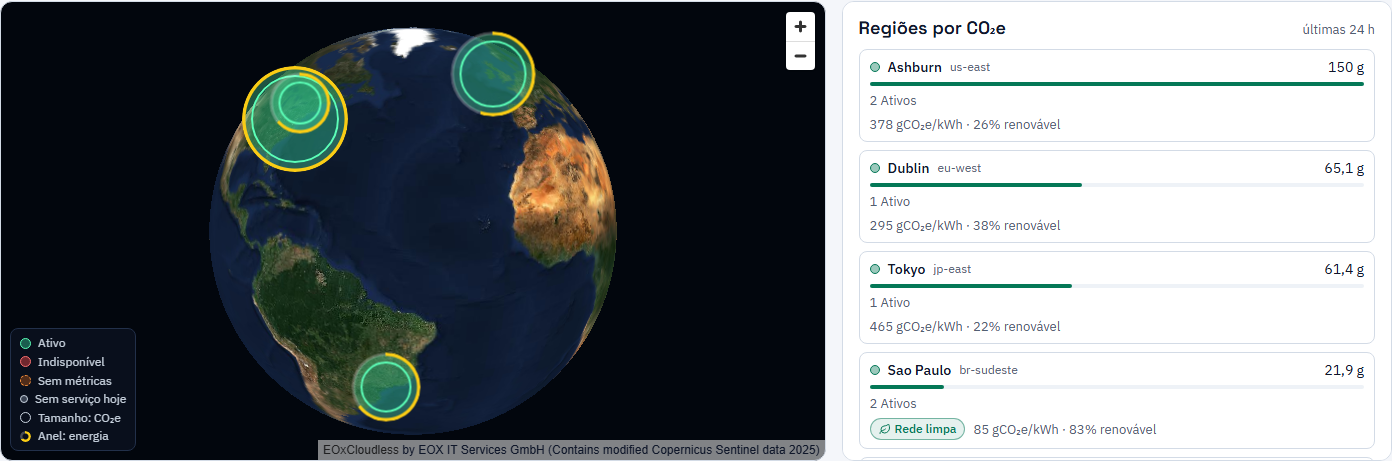
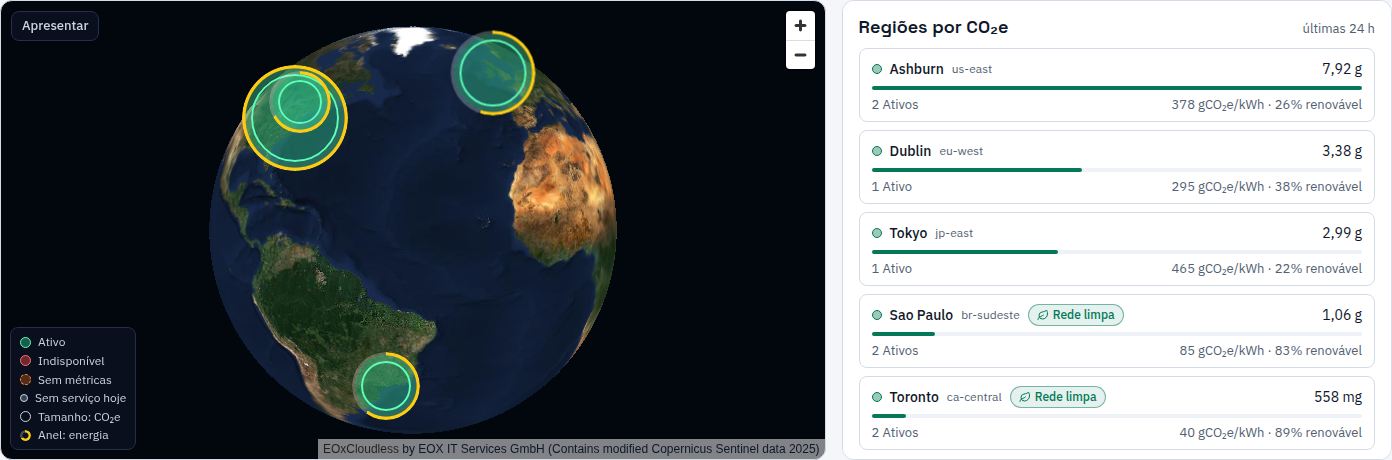
docs(docs): atualiza READMEs e prints do Dashboard (#434)
Lista de regiões em três linhas, painel da região em duas colunas, última atualização no topo do Dashboard e aviso de mudança abaixo dela; prints refeitos na stack com o backend real em 22/11.

diff --git a/frontend/README.md b/frontend/README.md
@@ -38,7 +38,7 @@ Lidas do `.env` da **raiz** do repositório (modelo em `.env.example`; `envDir: 
 - Com a aba oculta o polling pausa; ao voltar para a aba, busca na hora.
 - Ao sair da tela, o timer é limpo e a requisição pendente é cancelada (`AbortController`).
 - O intervalo vem do backend (#176): o `MonitoringProvider` lê `GET /monitoring-settings` ao abrir e de novo a cada ciclo, então uma troca feita na Configuração, em qualquer aba ou navegador, vale para todos no ciclo seguinte. Se a rota falhar ou responder fora do contrato, fica o último valor lido (antes do primeiro, o `VITE_REFRESH_INTERVAL_MS`).
-- O cabeçalho mostra "Última atualização: dd/mm HH:MM:SS · intervalo: N s" e o botão **Atualizar agora**; antes da primeira busca bem-sucedida (inclusive se ela falhar), mostra "Aguardando a primeira atualização" com o intervalo e o botão.
+- No topo do Dashboard, à esquerda de **Imprimir / PDF**, ficam "Última atualização: dd/mm HH:MM:SS · intervalo: N s" e o botão **Atualizar agora**; antes da primeira busca bem-sucedida (inclusive se ela falhar), aparece "Aguardando a primeira atualização" com o intervalo e o botão. Até a #434 os dois ficavam no cabeçalho, e o menu quebrava em duas linhas abaixo de cerca de 1.215 px; agora o cabeçalho só tem a marca, o menu e as ações da pessoa, e fica em uma linha a partir de cerca de 1.110 px. No papel a barra some, e o cabeçalho do relatório traz a última atualização.
 - Durante uma busca o botão fica com `aria-disabled` (não `disabled`), para quem navega pelo teclado não perder o foco a cada ciclo. O selo não é `role="status"`: o horário não é anunciado a cada ciclo, e a falha é anunciada pelo aviso de erro.
 - Se uma atualização falhar com dados na tela, eles continuam visíveis, o selo fica laranja ("Desatualizado desde…") e, acima dos cards, aparece a faixa compacta laranja `UpdateFailedBanner` (cerca de 40 px): a mensagem do erro, "Mostrando dados de HH:MM:SS." e **Tentar novamente**. A mensagem é a que o hook entrega: "Não foi possível conectar ao servidor…" quando a rede cai, ou a do corpo do erro num 500. O aviso grande (`ErrorState`) fica só para a falha sem nenhum dado.
 - A faixa é `role="status"`, e não `alert`: a região viva fica montada enquanto há dados, e o leitor de tela anuncia a falha uma vez, e não a cada ciclo do polling.
@@ -46,7 +46,7 @@ Lidas do `.env` da **raiz** do repositório (modelo em `.env.example`; `envDir: 
 ## Avisos de mudança de estado (RF02, RF05, RF06, #331)
 
 - `useStatusChanges` compara cada lista de `GET /services` com a anterior, sem requisição nova, e gera uma frase com o horário para cada mudança: "Novo serviço: Billing API, às 14:32", "Billing API ficou indisponível às 14:32", "… ficou sem métricas …", "… voltou a ficar ativo …" e "… saiu do agregador …" (estado `removido` ou fora da lista). A primeira lista da página só vira referência: a carga nunca avisa nada. Uma busca que falhou mantém a mesma lista e também não avisa.
-- O aviso (`ChangeToast`) aparece no canto inferior direito com até 3 frases, a mais grave primeiro, e some em 8 s (ou no ×). Abaixo de 600 px ele vai para o **topo, abaixo do cabeçalho**, com **uma frase** e o resto resumido em "e mais N em Últimas mudanças" (#388): no celular o mapa das regiões fica no rodapé da tela, e o aviso no rodapé cobria o começo do mapa e os botões "+" e "−" do zoom. O topo acompanha a base do cabeçalho medida na tela (`narrowToastTop`): o cabeçalho do celular tem duas linhas, com **Atualizar agora** na segunda, e a faixa do modo demonstração o empurra para baixo; com a página rolada, o cabeçalho sai da tela e o aviso fica a 8 px do topo. O layout segue a largura da janela ao vivo (`toastLayout`, com `matchMedia`), então girar o celular troca de um para o outro sem recarregar. Ele não recebe foco; a região `role="status"` com `aria-live="polite"` fica sempre montada, e o leitor de tela anuncia o lote uma vez.
+- O aviso (`ChangeToast`) aparece no canto inferior direito com até 3 frases, a mais grave primeiro, e some em 8 s (ou no ×). Abaixo de 600 px ele vai para o **topo, abaixo da barra com Atualizar agora e Imprimir / PDF** (`data-toast-anchor`, #434; sem ela, abaixo do cabeçalho), com **uma frase** e o resto resumido em "e mais N em Últimas mudanças" (#388): no celular o mapa das regiões fica no rodapé da tela, e o aviso no rodapé cobria o começo do mapa e os botões "+" e "−" do zoom. O topo acompanha a base do cabeçalho medida na tela (`narrowToastTop`): o cabeçalho do celular tem duas linhas, com **Atualizar agora** na segunda, e a faixa do modo demonstração o empurra para baixo; com a página rolada, o cabeçalho sai da tela e o aviso fica a 8 px do topo. O layout segue a largura da janela ao vivo (`toastLayout`, com `matchMedia`), então girar o celular troca de um para o outro sem recarregar. Ele não recebe foco; a região `role="status"` com `aria-live="polite"` fica sempre montada, e o leitor de tela anuncia o lote uma vez.
 - **Últimas mudanças** (`RecentChanges`), abaixo dos cards de estado, guarda as 10 mais recentes desde que a página abriu, em duas colunas a partir de 6 linhas na tela larga.
 - Na tabela, a linha que mudou de estado ganha um clarão verde de 4 s, e CPU e fator que subiram ou desceram desde a lista anterior ganham ▲ ou ▼ antes do número (o leitor de tela lê "subiu" ou "desceu"). Com "reduzir movimento", a linha fica com um contorno parado até a atualização seguinte. Se a busca seguinte falha, as setas somem enquanto o selo diz "Desatualizado desde…": o número é da atualização anterior, não um valor que acabou de mudar.
 
@@ -210,7 +210,7 @@ A API devolve energia em kWh e CO₂e em gramas. A tela escolhe a unidade em `sr
 
 ## Regiões por CO₂e (RF13, #342)
 
-- Entre **Quem pesa mais** e a tabela, o Dashboard mostra **Regiões por CO₂e**: uma linha por região, da maior para a menor emissão das últimas 24 h (o mesmo período dos indicadores), com a barra proporcional à maior, os serviços por estado ("2 Ativos · 1 Indisponível"), a intensidade da rede e a parte renovável. Região sem cálculo mostra "sem cálculo"; a marca colorida é o pior estado, e "Sem métricas" tem a borda tracejada, para não depender só da cor.
+- Entre **Quem pesa mais** e a tabela, o Dashboard mostra **Regiões por CO₂e**: uma linha por região, da maior para a menor emissão das últimas 24 h (o mesmo período dos indicadores), com a barra proporcional à maior, os serviços por estado ("2 Ativos · 1 Indisponível"), a intensidade da rede e a parte renovável. Cada região ocupa três linhas (#434): o nome, o código e o selo **Rede limpa** com o CO₂e à direita; a barra; e os serviços por estado à esquerda com a rede à direita. Ao lado do mapa, cinco regiões cabem sem rolagem; em card estreito, a rede desce para a linha de baixo, alinhada à esquerda. Região sem cálculo mostra "sem cálculo"; a marca colorida é o pior estado, e "Sem métricas" tem a borda tracejada, para não depender só da cor.
 - Os dados vêm de `GET /api/regions` e `GET /api/regions/summary` (`regions.service.ts`, #341), buscados juntos a cada ciclo do polling. `utils/region-map.ts` junta as duas respostas com o `joinRegions` da #321 e separa as regiões com serviço, as **sem serviço hoje** (no grupo recolhido do fim, por nome) e os serviços **fora do mapa**: sem região, com região que a Carbon API não informa ou com região sem coordenada. Eles continuam na tabela, e o aviso diz quantos são; o CO₂e dos sem região conhecida aparece no aviso, para a soma da lista bater com o card **Emissões no período**. Serviços removidos não entram nas contagens.
 - **Seleção compartilhada:** cada região da lista é um botão com `aria-pressed`. Clicar numa região destaca, na tabela, as linhas dela (fundo e filete verde à esquerda); na tabela, o código da região na coluna **Localização** também é um botão que seleciona a mesma região na lista, sem abrir a janela do serviço. Clicar de novo desfaz a seleção. O mapa (abaixo) usa a mesma seleção.
 - **Com o backend real** (`VITE_API_URL`), a lista e o mapa usam `GET /api/regions` (#319) e `GET /api/regions/summary` (#320), verificados no compose na #351 (PR #373).
@@ -230,16 +230,17 @@ A API devolve energia em kWh e CO₂e em gramas. A tela escolhe a unidade em `sr
 
 ## Selo de rede limpa (RF12, RF13, #324)
 
-- O selo **Rede limpa** (folha e texto, nunca só a cor) marca as regiões com intensidade de carbono de agora em até **100 g CO₂e/kWh**, o limite do PO em [docs/calculos.md § Limite de "rede limpa"](../docs/calculos.md#limite-de-rede-limpa) (caso região). Ele aparece em três lugares: na tabela de serviços, ao lado do código da região na coluna **Localização**; na lista de regiões, antes da intensidade, inclusive nas regiões sem serviço hoje; e no rótulo das bolhas do mapa ("…, rede limpa"), lido pelo leitor de tela.
+- O selo **Rede limpa** (folha e texto, nunca só a cor) marca as regiões com intensidade de carbono de agora em até **100 g CO₂e/kWh**, o limite do PO em [docs/calculos.md § Limite de "rede limpa"](../docs/calculos.md#limite-de-rede-limpa) (caso região). Ele aparece em três lugares: na tabela de serviços, ao lado do código da região na coluna **Localização**; na lista de regiões, ao lado do nome (#434), inclusive nas regiões sem serviço hoje; e no rótulo das bolhas do mapa ("…, rede limpa"), lido pelo leitor de tela.
 - O tooltip mostra a intensidade e o % renovável em destaque ("40 g CO₂e/kWh · 89% renovável") e a regra embaixo; na tabela, os mesmos números vão em texto para o leitor de tela. Sem intensidade conhecida, ou com a região fora de `GET /api/regions`, não há selo: falta de dado nunca vira "rede limpa".
 - A intensidade vem **só de `GET /api/regions`**, por `isCleanGrid` e `gridByCode` de `utils/regions.ts`; o limite é a única constante (`CLEAN_GRID_MAX_GCO2E_PER_KWH`, que muda junto com o documento). Por isso o selo pode discordar da coluna **Fator da região**, que é o fator gravado na última coleta. O Dashboard busca as duas rotas de região com `Promise.allSettled`: se só `GET /api/regions/summary` falha, a lista e o mapa mostram "Regiões indisponíveis", mas o selo da tabela continua. Se a própria lista falha, o selo fica em cinza com o último dado, e o tooltip avisa que é da atualização anterior.
 
 ## Simulação de migração (RF15, #326)
 
 - Com uma região **com serviço** selecionada (no mapa, na lista ou na tabela), abaixo do mapa e da lista abre o painel da região (`RegionDetail`): CO₂e e energia das últimas 24 h e o bloco **Alternativa mais limpa nas últimas 24 h**. Região sem serviço não abre o painel, porque não há nada a migrar.
+- **Duas colunas a partir de 1100 px (#434):** o mesmo corte do mapa com a lista. À esquerda fica a decisão (o subtítulo, a frase ou o cartão de recomendação, **Por que a diferença** e os botões); à direita, a tabela **Simular outra região**. Antes, o cartão e a tabela paravam em 720 px e a metade direita do painel ficava vazia. Abaixo de 1100 px e no papel, o painel continua empilhado. Abaixo de 600 px, as células da tabela têm 4 px de respiro lateral, e as quatro colunas cabem em 390 px.
 - O bloco usa a região de **menor intensidade entre todas as da Carbon API**, inclusive as sem serviço hoje, e é um **cartão de recomendação** (#395), do achado para a conta: (1) o veredito numa frase, "Mover para <cidade> reduziria o CO₂e desta região em cerca de Y%" (ou "aumentaria", "manteria"), com o `CleanGridBadge` quando o destino tem até 100 g/kWh; (2) **hoje × simulado** em duas barras no mesmo eixo, começando em zero, com o valor escrito ao lado (`migrationBars`); (3) a diferença em palavras, "X g a menos de CO₂e nas últimas 24 h"; (4) a linha da conta em kWh e g/kWh ("Conta: 0,118 kWh × 40 g/kWh = 4,72 g"), para quem verifica refazer o cálculo com a fórmula de [docs/calculos.md § Simulação de migração regional](../docs/calculos.md#simulação-de-migração-regional). O percentual tem 2 casas, como no exemplo do documento. Borda, barra e diferença ficam verdes na redução e laranja no aumento, sempre com o verbo e a palavra junto da cor. O veredito vem de `migrationVerdict` (`src/utils/region-map.ts`).
 - **Por que a diferença:** a intensidade da origem **no período** (CO₂e ÷ energia das coletas, `periodIntensity`, a mesma base da simulação, que usa o CO₂e gravado) contra a de agora no destino, com quantas vezes uma é menor ou maior (`intensityRatioText`; abaixo de 5% de diferença, "praticamente a mesma"), a energia considerada e quantos serviços a consumiram, e o aviso quando o destino não tem serviço monitorado hoje.
-- **Tabela de fatores como seletor:** uma linha por região, exceto a origem, da mais limpa para a mais suja (`sortByCleanest`), com a intensidade, o CO₂e simulado e a diferença. A mais limpa tem a etiqueta "mais limpa"; região sem intensidade aparece "indisponível" e não pode ser escolhida. Escolher uma linha refaz o cartão com aquela região, e o título do bloco passa a **Destino escolhido**. A coluna Diferença mostra "▼ Y%" ou "▲ Y%", com a palavra "redução" ou "aumento" para o leitor de tela; destino mais sujo aparece como "aumentaria", nunca como redução negativa. **Ver alternativa mais limpa** escolhe a primeira linha, e **Voltar para <origem>** desfaz a escolha.
+- **Tabela de fatores como seletor:** uma linha por região, exceto a origem, da mais limpa para a mais suja (`sortByCleanest`), com a intensidade, o CO₂e simulado e a diferença. A mais limpa tem a etiqueta "mais limpa", exceto quando a própria origem já é a de menor intensidade: aí nenhuma linha tem a etiqueta nem o destaque, para não contradizer a frase "Esta já é a região de menor intensidade de carbono." (#434); região sem intensidade aparece "indisponível" e não pode ser escolhida. Escolher uma linha refaz o cartão com aquela região, e o título do bloco passa a **Destino escolhido**. A coluna Diferença mostra "▼ Y%" ou "▲ Y%", com a palavra "redução" ou "aumento" para o leitor de tela; destino mais sujo aparece como "aumentaria", nunca como redução negativa. **Ver alternativa mais limpa** escolhe a primeira linha, e **Voltar para <origem>** desfaz a escolha.
 - O destino fica guardado no Dashboard junto com a origem: trocar a região selecionada zera o destino, e a atualização periódica não mexe nele.
 - **Destino no mapa:** com um destino escolhido, a região dele ganha um marcador azul-claro com contorno tracejado (**Destino simulado** na legenda), do tamanho do CO₂e simulado na mesma escala das bolhas, mesmo quando a região não tem serviço; o `aria-label` traz o valor. Enquanto a simulação está aberta, o CO₂e do destino entra no máximo da escala (`co2eScaleMax`): um destino mais sujo que a maior região sai maior que ela, e a origem encolhe um pouco. O marcador não pulsa, porque é simulação e não leitura. Se o destino tem serviço, o marcador ocupa o lugar da bolha dele enquanto a simulação estiver aberta. A câmera vai até o destino e volta com **Voltar para <origem>**; clicar em outra região ou em **Visão geral** encerra a comparação, e a atualização periódica não move a câmera (`cameraTarget`, em `src/utils/region-map.ts`). No celular, os botões do painel rolam a página até o mapa quando ele saiu da tela, para a viagem aparecer.
 - **Nome no mapa:** sob a bolha selecionada e sob o destino aparece uma etiqueta com o nome e o CO₂e que o tamanho representa ("Ashburn · 1,03 kg CO₂e", "Destino simulado: Estocolmo · 68,3 g CO₂e"), para o mapa dizer onde a câmera está mesmo com o painel fora da tela. O texto vem de `bubbleCaption` (`src/utils/region-map.ts`); o leitor de tela continua ouvindo o `aria-label` da bolha.
@@ -432,7 +433,7 @@ npm run mock        # backend falso em http://localhost:3000 (desenvolvimento)
 7. Ao abrir, a tabela já vem ordenada pelo CO₂e das 24 h, do maior para o menor (#330): o título **CO₂e 24 h** mostra ↓ (`aria-sort="descending"`), a primeira linha é **Fraud Detector** e **Email Dispatcher** e **Inventory Sync**, sem cálculo no período, ficam no fim. Clicar em **Status** → ordena por gravidade (Indisponível, Sem métricas, Ativo, Removido), com desempate pelo maior CO₂e das 24 h. Clicar nos títulos das colunas (Serviço, Status, Energia 24 h, CO₂e 24 h, Parte, CPU, Fator, Última leitura, Localização) → ordena; clicar de novo inverte; serviços sem valor ficam sempre no fim. Localização ordena pela região (depois país e cidade). Ordenar por **CO₂e 24 h**, nos dois sentidos → um serviço **Removido** fica sempre na última linha, com os números em cinza. Com a tela aberta, parar o backend (`docker compose stop backend`) e clicar em **Atualizar agora** → além da faixa laranja, os números da tabela ficam em cinza, inclusive a coluna **Parte do CO₂e (24 h)**, sem o neon do 1º, e a frase **Quem pesa mais** perde a borda verde; `docker compose start backend` e **Tentar novamente** → voltam à cor normal (#261, #260).
 8. `MOCK_SERVICES=vazio npm run mock` e recarregar → "Nenhum serviço monitorado ainda".
 9. `MOCK_SERVICES=erro npm run mock` e recarregar → sem nenhum dado na tela, aparece um aviso grande "Falha simulada no backend falso." (a mensagem vem do corpo do erro) com **Tentar novamente**: a lista de serviços e o painel de indicadores falham juntos, como no backend real com o banco fora do ar, e o aviso é um só (#271). O ranking de CO₂e nem é pedido, porque espera a primeira lista: o terminal do mock não registra `GET /services/ranking`.
-10. Com dados carregados, o cabeçalho mostra o selo **"Última atualização: dd/mm HH:MM:SS"** com um ponto verde pulsando (sistema ativo); com "reduzir movimento" ligado no sistema, o ponto fica parado. A cada horário novo no selo, o logo pulsa uma vez: a folha vira uma linha de batimento com brilho neon e volta (cerca de 2,4 s). Ele não pulsa quando a atualização falha, em **Configuração** (sem polling) nem com "reduzir movimento", e dois cliques seguidos em **Atualizar agora** não reiniciam o pulso no meio. Apertar Tab logo depois de abrir a página → aparece **Pular para o conteúdo** no canto; Enter leva o foco ao conteúdo, pulando o menu (#262).
+10. Com dados carregados, o topo do Dashboard mostra, à esquerda de **Imprimir / PDF**, o selo **"Última atualização: dd/mm HH:MM:SS"** com um ponto verde pulsando (sistema ativo); com "reduzir movimento" ligado no sistema, o ponto fica parado. A cada horário novo no selo, o logo pulsa uma vez: a folha vira uma linha de batimento com brilho neon e volta (cerca de 2,4 s). Ele não pulsa quando a atualização falha, em **Configuração** (sem polling) nem com "reduzir movimento", e dois cliques seguidos em **Atualizar agora** não reiniciam o pulso no meio. Apertar Tab logo depois de abrir a página → aparece **Pular para o conteúdo** no canto; Enter leva o foco ao conteúdo, pulando o menu (#262).
 11. Com o mock no ar, carregar o dashboard, depois subir o mock com `MOCK_SERVICES=erro` e clicar em **Atualizar agora** → os dados continuam na tela, o selo fica laranja (**"Desatualizado desde …"**) e, acima dos cards, aparece a faixa compacta laranja "Falha simulada no backend falso. Mostrando dados de HH:MM:SS." com **Tentar novamente**, no lugar do aviso grande.
 12. Com o mock no ar com `MOCK_REFRESH_INTERVAL_SECONDS=5 npm run mock` (PowerShell: `$env:MOCK_REFRESH_INTERVAL_SECONDS='5'; npm run mock`): a cada 5 s o horário do selo muda e o terminal do mock registra um novo `GET /services`; os valores de CPU e energia mudam na tabela **sem recarregar a página**. O selo mostra "intervalo: 5 s".
 13. Clicar em **Atualizar agora** (ícone ao lado do selo) → busca na hora, sem esperar o intervalo.
@@ -532,7 +533,7 @@ npm run mock        # backend falso em http://localhost:3000 (desenvolvimento)
 105. Abrir o link numa janela anônima → **Criar conta** com `ana@exemplo.com` e **Usuário** em somente leitura. Senha `curta` → a regra aparece no campo; confirmação diferente → "As senhas não são iguais."; nenhuma das duas chama `POST /auth/register` (aba Network). Com nome, `senha1234` e a mesma confirmação → a tela vai para `/login` com "Conta criada. Entre com seu e-mail e senha." e o e-mail preenchido.
 106. Abrir o mesmo link de novo → "Este convite já foi usado.", sem formulário. `/cadastro?convite=` com um token qualquer → "Convite não encontrado…"; `/cadastro` sem token → "Este link de convite está incompleto…".
 107. Entrar como `ana@exemplo.com` / `senha1234` → o cabeçalho diz "Olá, Ana"; na **Configuração**, "Papel: Usuário", sem **Convidar pessoa** e com o intervalo só para leitura ("Só administradores alteram a configuração."). Com 390 px, o cadastro e a Configuração com o link gerado não têm rolagem lateral. Sem o backend, o mesmo roteiro roda com `npm run mock` (convites e contas valem até reiniciar o mock).
-108. Com o `.env` do passo 4 e `MOCK_SERVICES=mudancas MOCK_REFRESH_INTERVAL_SECONDS=5 npm run mock` (#388), abrir o Dashboard em 390 px, rolar até o mapa das regiões e posicionar os botões "Zoom in"/"Zoom out" na tela → quando o mock derruba um serviço, o aviso aparece no **topo** (8 px abaixo da borda da janela, já que o cabeçalho rolou para fora; largura total menos 16 px de cada lado), com uma frase e o resto em "e mais N em Últimas mudanças", e os dois botões do mapa continuam visíveis e clicáveis. Voltar ao topo da página e esperar o aviso seguinte → ele aparece 8 px abaixo do cabeçalho de duas linhas, sem cobrir **Atualizar agora**; o mesmo em 360 e 320 px. Em 1366 px, o mesmo evento mostra o aviso no canto inferior direito (360 px de largura, 16 px das bordas) com até 3 frases. Abrir o **Menu** com o aviso na tela → o painel do menu fica por cima dele.
+108. Com o `.env` do passo 4 e `MOCK_SERVICES=mudancas MOCK_REFRESH_INTERVAL_SECONDS=5 npm run mock` (#388), abrir o Dashboard em 390 px, rolar até o mapa das regiões e posicionar os botões "Zoom in"/"Zoom out" na tela → quando o mock derruba um serviço, o aviso aparece no **topo** (8 px abaixo da borda da janela, já que o cabeçalho rolou para fora; largura total menos 16 px de cada lado), com uma frase e o resto em "e mais N em Últimas mudanças", e os dois botões do mapa continuam visíveis e clicáveis. Voltar ao topo da página e esperar o aviso seguinte → ele aparece 8 px abaixo da barra com **Atualizar agora** e **Imprimir / PDF** (#434), sem cobrir os dois; o mesmo em 360 e 320 px. Em 1366 px, o mesmo evento mostra o aviso no canto inferior direito (360 px de largura, 16 px das bordas) com até 3 frases. Abrir o **Menu** com o aviso na tela → o painel do menu fica por cima dele.
 109. Com o backend falso (passo 4) e a sessão aberta, abrir **Emissões**, serviço **Fraud Detector**, período **Hoje**, e clicar duas vezes em **Aproximar** e uma em **▶** (zoom, #396) → os cards passam a "Emissão no trecho", "Energia no trecho", "Média a cada 15 min no trecho", "Maior intervalo no trecho" e "Coletas no trecho", e a **Intensidade da região** ganha "período inteiro"; o subtítulo ganha "· trecho HH:MM–HH:MM"; uma faixa diz "Trecho ampliado: dd/mm HH:MM → HH:MM (duração), N% do período" e "Período inteiro: … CO₂e · … · N coletas; o trecho tem N% do CO₂e. O CSV continua com o período inteiro.". O primeiro **Aproximar** mostra a metade central do dia até agora, encaixada em 15 min; o segundo, a metade dessa; **▶** anda meio trecho (com o relógio em 20/11/2026 18:30: 04:45–14:00, 07:00–11:45 e 09:30–14:15). A dica (mouse ou setas, Home e End no gráfico) e o chip do pico ficam dentro do trecho.
 110. Com o trecho, clicar em **Imprimir / PDF** → o cabeçalho diz "Período dd/mm/aaaa (horário de Brasília) · trecho HH:MM–HH:MM", os cards dizem "no trecho", o gráfico é o do trecho, a faixa não sai no papel, e o total da tabela é igual aos cards (em 20/11/2026 18:30, trecho 09:30–14:15: 19 intervalos, 570 coletas, 324,3 Wh e 122,28 g, iguais à soma dos `buckets` de `GET /api/collections/series` de 09:30 a 14:15; nos cards, 570, 324 Wh e 122 g). **Baixar CSV** → "CSV com N coletas baixado.", com N igual às coletas do "Período inteiro" da faixa, e a busca vai de 00:00 até agora.
 111. Com o trecho, ligar **Acumulado** → a curva começa no primeiro intervalo do trecho, e End no gráfico mostra "Acumulado" igual ao card **Emissão no trecho**; o subtítulo diz "acumulada desde o início do trecho (HH:MM)". Ligar **Tempo real** → a cada atualização o trecho continua o mesmo. Trocar **Agrupar por** para **Cada coleta** → o mesmo trecho, um ponto por coleta e os mesmos totais; de volta a **Automático**, os intervalos de 15 min.

diff --git a/README.md b/README.md
@@ -90,9 +90,11 @@ O desenvolvimento acontece na branch `develop`; cada funcionalidade entra nesta 
 
   _Dashboard com o backend real (`docker compose`) em 07/11/2026, 14h25, num banco novo com poucos minutos de coletas do agregador: o Fraud Detector respondeu por 27,6% do CO₂e das últimas 24 h, e a coluna soma 100,0%._
 
-- **RNF02 — Indicador de última atualização (#89):** selo no cabeçalho com o horário da última busca bem-sucedida e um ponto verde pulsando enquanto os dados estão em dia; se uma busca falha, ele fica laranja e passa a dizer "Desatualizado desde …", sem apagar os dados da tela.
+- **RNF02 — Indicador de última atualização (#89, #434):** selo no topo do Dashboard, à esquerda de **Imprimir / PDF**, com o horário da última busca bem-sucedida, o intervalo e o botão **Atualizar agora**, e um ponto verde pulsando enquanto os dados estão em dia; se uma busca falha, ele fica laranja e passa a dizer "Desatualizado desde …", sem apagar os dados da tela. Até a #434 o selo ficava no cabeçalho, e o menu quebrava em duas linhas em 1366 px; agora o cabeçalho fica em uma linha a partir de cerca de 1.110 px ([detalhes](frontend/README.md#atualização-em-tempo-real)).
 
-  ![Selo de última atualização no cabeçalho](docs/img/sprint-2-ultima-atualizacao.png)
+  ![Cabeçalho em uma linha e, abaixo dele, o selo de última atualização ao lado de Imprimir / PDF](docs/img/sprint-3-ultima-atualizacao.png)
+
+  _Dashboard com o backend real (`docker compose`) em 22/11/2026, 9h16, em 1366 px e no tema claro: o menu e as ações da pessoa numa linha só; abaixo, "Última atualização: 22/11 09:16:03 · intervalo: 30 s", o botão de atualizar e **Imprimir / PDF**._
 
 - **RNF04 — Resposta da API conferida antes de aparecer na tela (#161):** o frontend confere o formato de `GET /api/services` e `GET /api/collections` (#161), e também de `GET /api/services/summary` e `GET /api/services/compare` (#237, PR [#252](https://github.com/DEVassos/ecopulse-app/pull/252)), contra o contrato de [docs/api.md](docs/api.md) a cada busca. Um item sem `id` ou com CPU em texto faz a busca ser tratada como falha: os dados anteriores continuam com "Desatualizado desde …" e **Tentar novamente**, e o item inválido não aparece. Atende ao apontamento do cliente na review da Sprint 1. Como verificar em [frontend/README.md](frontend/README.md#conferência-das-respostas-da-api-161).
 
@@ -166,13 +168,13 @@ O desenvolvimento acontece na branch `develop`; cada funcionalidade entra nesta 
 
   _Em 390 px, com o mapa das regiões no rodapé da tela e o aviso "Checkout Worker voltou a ficar ativo" (#388): o aviso fica no topo, com uma frase e o resto em **Últimas mudanças**, e os botões + e − do mapa continuam visíveis e clicáveis. Com a página no topo, ele aparece logo abaixo do cabeçalho, sem cobrir **Atualizar agora**. Em 1366 px ele volta ao canto inferior direito com até 3 frases ([print](docs/img/sprint-3-avisos-mudancas-desktop.png))._
 
-- **RF12, RF13 — Regiões por CO₂e e mapa de bolhas com o backend real (#342, #322, #351, PR #373):** entre a frase **Quem pesa mais** e a tabela, o dashboard mostra um globo com uma bolha por região e, ao lado, a lista **Regiões por CO₂e** das últimas 24 h, as mesmas dos cards do topo: a soma da lista é igual ao card **Emissões no período**. O tamanho da bolha cresce com o CO₂e, o anel pela energia e a cor do pior estado dos serviços da região; regiões sem serviço hoje viram um ponto neutro. Escolher uma região no mapa, na lista ou na tabela destaca a mesma região nos três lugares e leva o mapa até ela. Os dados vêm de `GET /api/regions` (coordenadas, intensidade e % renovável, #319) e `GET /api/regions/summary` (energia, CO₂e e estados por região no período, #320); se só essas rotas falham, o lugar da lista mostra "Regiões indisponíveis" com a mensagem do erro, ou "Regiões desatualizadas" com o último dado em cinza. No celular, o mapa fica em cima da lista e o globo e as bolhas encolhem para caber ([detalhes](frontend/README.md#mapa-das-regiões-rf13-322)).
+- **RF12, RF13 — Regiões por CO₂e e mapa de bolhas com o backend real (#342, #322, #351, PR #373; três linhas por região, #434):** entre a frase **Quem pesa mais** e a tabela, o dashboard mostra um globo com uma bolha por região e, ao lado, a lista **Regiões por CO₂e** das últimas 24 h, as mesmas dos cards do topo: a soma da lista é igual ao card **Emissões no período**. O tamanho da bolha cresce com o CO₂e, o anel pela energia e a cor do pior estado dos serviços da região; regiões sem serviço hoje viram um ponto neutro. Escolher uma região no mapa, na lista ou na tabela destaca a mesma região nos três lugares e leva o mapa até ela. Os dados vêm de `GET /api/regions` (coordenadas, intensidade e % renovável, #319) e `GET /api/regions/summary` (energia, CO₂e e estados por região no período, #320); se só essas rotas falham, o lugar da lista mostra "Regiões indisponíveis" com a mensagem do erro, ou "Regiões desatualizadas" com o último dado em cinza. No celular, o mapa fica em cima da lista e o globo e as bolhas encolhem para caber ([detalhes](frontend/README.md#mapa-das-regiões-rf13-322)). Desde a #434, cada região ocupa três linhas (nome, código e selo **Rede limpa** com o CO₂e; a barra; serviços à esquerda e rede à direita), e as cinco regiões cabem ao lado do mapa sem rolagem.
 
   ![Globo com as bolhas das regiões e a lista Regiões por CO₂e ao lado](docs/img/sprint-3-dashboard-regioes.png)
 
-  _Dashboard com o backend real (`docker compose`) em 17/11/2026, 23h48, em 1440 px, com cerca de 13 h de coletas: Ashburn (`us-east`) emitiu mais (150 g) com dois serviços e a intensidade de 378 g CO₂e/kWh; Sao Paulo (`br-sudeste`, 85 g/kWh) tem o selo **Rede limpa**. O crédito das imagens da EOX fica no canto do mapa (#351)._
+  _Dashboard com o backend real (`docker compose`) em 22/11/2026, 9h17, em 1920 px, num banco novo com cerca de 20 min de coletas: Ashburn (`us-east`) emitiu mais (7,92 g) com dois serviços e a intensidade de 378 g CO₂e/kWh; Sao Paulo (`br-sudeste`, 85 g/kWh) e Toronto (`ca-central`, 40 g/kWh) têm o selo **Rede limpa** ao lado do nome. O crédito das imagens da EOX fica no canto do mapa (#351)._
 
-- **RF15 — Alternativa mais limpa: simulação de migração regional (US12 #53; #382, PR #383; #326, PR #384):** com uma região selecionada no mapa, na lista ou na tabela, abaixo do mapa abre o painel da região com o bloco **Alternativa mais limpa nas últimas 24 h**, sempre com a região de menor intensidade entre todas as da Carbon API, inclusive as sem serviço hoje. Desde a #395 o bloco é um cartão que começa pelo veredito ("Mover para <cidade> reduziria o CO₂e desta região em cerca de Y%", com o selo de rede limpa quando o destino tem até 100 g/kWh), mostra o CO₂e de hoje e o simulado em duas barras no mesmo eixo, a diferença em palavras ("X g a menos de CO₂e nas últimas 24 h") e a linha da conta em kWh e g/kWh para quem quiser refazer; logo abaixo, **Por que a diferença** compara a intensidade do período na origem (CO₂e ÷ energia) com a de agora no destino ("15,1 vezes menor") e diz a energia considerada. A tabela de fatores é o seletor de destino: da mais limpa para a mais suja, com intensidade, CO₂e simulado e diferença, a mais limpa destacada e as regiões sem intensidade bloqueadas; destino mais sujo aparece como aumento, nunca como redução negativa. **Ver alternativa mais limpa** leva a câmera até o destino, marcado no mapa como **Destino simulado** do tamanho do CO₂e simulado e com o nome embaixo, e **Voltar para <origem>** desfaz. A conta troca só o fator da região e preserva a energia ([fórmula, ressalvas e exemplo em docs/calculos.md](docs/calculos.md#simulação-de-migração-regional)); o painel declara o que ela não considera (latência, custo de nuvem, disponibilidade, hardware ou arquitetura, energia para mover os dados) e a hora da intensidade usada ([detalhes](frontend/README.md#simulação-de-migração-rf15-326)).
+- **RF15 — Alternativa mais limpa: simulação de migração regional (US12 #53; #382, PR #383; #326, PR #384; duas colunas, #434):** com uma região selecionada no mapa, na lista ou na tabela, abaixo do mapa abre o painel da região com o bloco **Alternativa mais limpa nas últimas 24 h**, sempre com a região de menor intensidade entre todas as da Carbon API, inclusive as sem serviço hoje. Desde a #395 o bloco é um cartão que começa pelo veredito ("Mover para <cidade> reduziria o CO₂e desta região em cerca de Y%", com o selo de rede limpa quando o destino tem até 100 g/kWh), mostra o CO₂e de hoje e o simulado em duas barras no mesmo eixo, a diferença em palavras ("X g a menos de CO₂e nas últimas 24 h") e a linha da conta em kWh e g/kWh para quem quiser refazer; logo abaixo, **Por que a diferença** compara a intensidade do período na origem (CO₂e ÷ energia) com a de agora no destino ("15,1 vezes menor") e diz a energia considerada. A tabela de fatores é o seletor de destino: da mais limpa para a mais suja, com intensidade, CO₂e simulado e diferença, a mais limpa destacada e as regiões sem intensidade bloqueadas; destino mais sujo aparece como aumento, nunca como redução negativa. **Ver alternativa mais limpa** leva a câmera até o destino, marcado no mapa como **Destino simulado** do tamanho do CO₂e simulado e com o nome embaixo, e **Voltar para <origem>** desfaz. A conta troca só o fator da região e preserva a energia ([fórmula, ressalvas e exemplo em docs/calculos.md](docs/calculos.md#simulação-de-migração-regional)); o painel declara o que ela não considera (latência, custo de nuvem, disponibilidade, hardware ou arquitetura, energia para mover os dados) e a hora da intensidade usada ([detalhes](frontend/README.md#simulação-de-migração-rf15-326)).
 
   ![Mapa com o destino simulado em Toronto e o painel da alternativa mais limpa de Ashburn](docs/img/sprint-3-alternativa-limpa.png)
 
@@ -181,6 +183,10 @@ O desenvolvimento acontece na branch `develop`; cada funcionalidade entra nesta 
   ![Cartão da alternativa mais limpa de Ashburn: veredito, barras de hoje e simulado, diferença, conta e por que](docs/img/sprint-3-recomendacao-regiao.png)
 
   _Painel de Ashburn com o backend falso em 22/11/2026, 1280 px (#395): "Mover para Estocolmo reduziria o CO₂e desta região em cerca de 93,37%", 1,03 kg hoje contra 68,1 g simulado no mesmo eixo, 959 g a menos, a conta 2,726 kWh × 25 g/kWh e, em **Por que a diferença**, 377 g/kWh no período contra 25 g/kWh agora (15,1 vezes menor)._
+
+  ![Painel de Ashburn em duas colunas: cartão da alternativa mais limpa à esquerda e tabela de destinos à direita](docs/img/sprint-3-painel-regiao.png)
+
+  _Painel de Ashburn com o backend real (`docker compose`) em 22/11/2026, 9h16, em 1440 px (#434): a partir de 1100 px, o cartão "Mover para Toronto reduziria o CO₂e desta região em cerca de 89,42%" e **Por que a diferença** ficam à esquerda e a tabela **Simular outra região** à direita, no lugar da metade vazia. Quando a região selecionada já é a de menor intensidade (Toronto), o painel diz "Esta já é a região de menor intensidade de carbono." e nenhuma linha da tabela recebe a etiqueta "mais limpa"._
 
 - **RNF05 — Exportação do período em CSV e PDF (US13 #54; #24, PR #386; #13, PR #387):** na página Emissões, **Baixar CSV** entrega todas as coletas do serviço no período escolhido, uma por linha (horário de Brasília, status, CPU, memória, disco, rede, intervalo, energia, CO₂e, fator da região, cálculo e erro), em UTF-8, com vírgula como separador e ponto decimal, o padrão das ferramentas de BI (no Excel em português, pelo menu Dados → De Texto/CSV); valor ausente fica vazio, nunca 0, e a soma das colunas bate com os cards. As coletas vêm em partes de `GET /api/collections`, com progresso e **Cancelar**, e uma falha no meio não entrega arquivo pela metade. **Imprimir / PDF** abre a impressão do navegador com um relatório A4 no tema claro: cabeçalho com o logo, DEVassos, serviço, período, região e agrupamento, os KPIs, o gráfico e a tabela por intervalo com o total e os trechos sem coleta, repetindo o cabeçalho da tabela em cada página ([detalhes](frontend/README.md#exportação-do-período-us13-54-24)).
 

diff --git a/docs/identidade-visual.md b/docs/identidade-visual.md
@@ -138,7 +138,7 @@ No tema escuro, `--neon-text` é o próprio `--neon`. Os dois só se separam no 
   2. Mapa reduzido.
   3. Dashboard da região/serviço selecionado.
   4. Ranking de consumo ao final da página.
-* Cabeçalho abaixo de 961 px (#258): a primeira linha tem a marca, o nome de quem entrou e **Sair** (sem sessão, o cabeçalho não aparece, #257), a segunda o menu e a terceira a "Última atualização" com o botão de atualizar. Na tela larga, tudo fica numa linha só.
+* Cabeçalho abaixo de 961 px (#258): a primeira linha tem a marca, o nome de quem entrou e **Sair** (sem sessão, o cabeçalho não aparece, #257) e a segunda o menu. Na tela larga, tudo fica numa linha só. A "Última atualização" com o botão de atualizar não mora no cabeçalho: desde a #434 ela fica no topo do Dashboard, à esquerda de **Imprimir / PDF**, para o menu caber em uma linha em 1366 px.
 * Abaixo de 600 px (#274), a faixa do menu dá lugar ao botão **Menu**, na linha da marca, que abre uma grade de duas colunas logo abaixo do cabeçalho, sobre o fundo apagado: cada página é um cartão em `--surface` com o ícone sobre o rótulo, e a atual tem o mesmo verde do item ativo da faixa. Nenhum item do menu fica cortado ou escondido numa rolagem lateral. A saudação ("Olá, nome", com o e-mail em `--muted`) e o botão de tema saem da linha da marca e vão para o fim do painel; no cabeçalho fica só o **Sair**.
 * Os cards de energia e emissões do período ficam em uma coluna no celular, para o valor e a unidade ("g CO₂e") caberem na mesma linha.
 * Tabela de serviços abaixo de 600 px (#263): a emissão da última leitura aparece também sob o nome, em `--mono` 12 px e `--muted`. Toda área com rolagem horizontal (tabela de serviços, matriz da Comparação) mostra uma sombra interna em `--bg` na borda direita enquanto há colunas escondidas (`.scroll-edge`). É um sinal de estado, não elevação, e some quando a rolagem chega ao fim.
